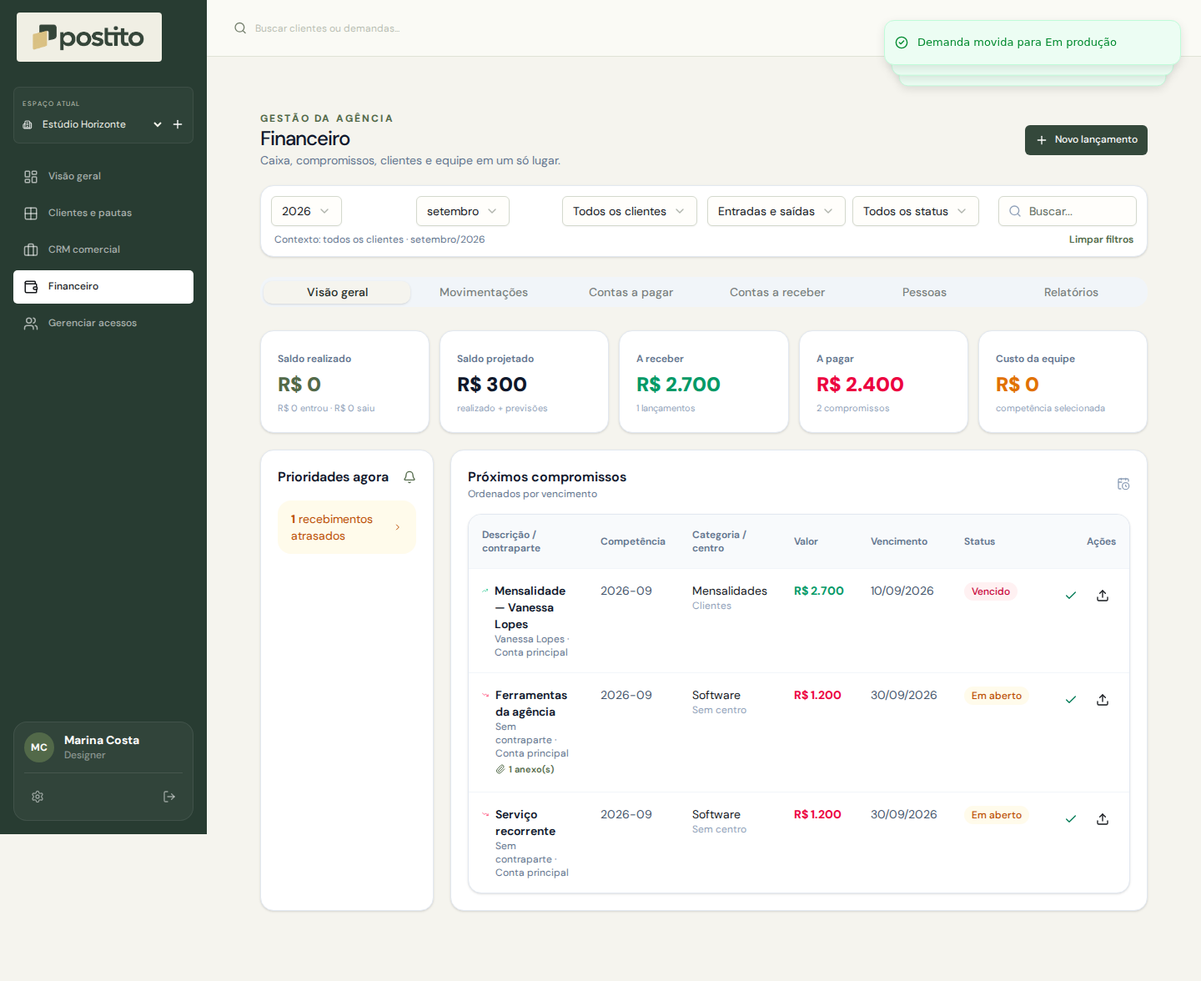
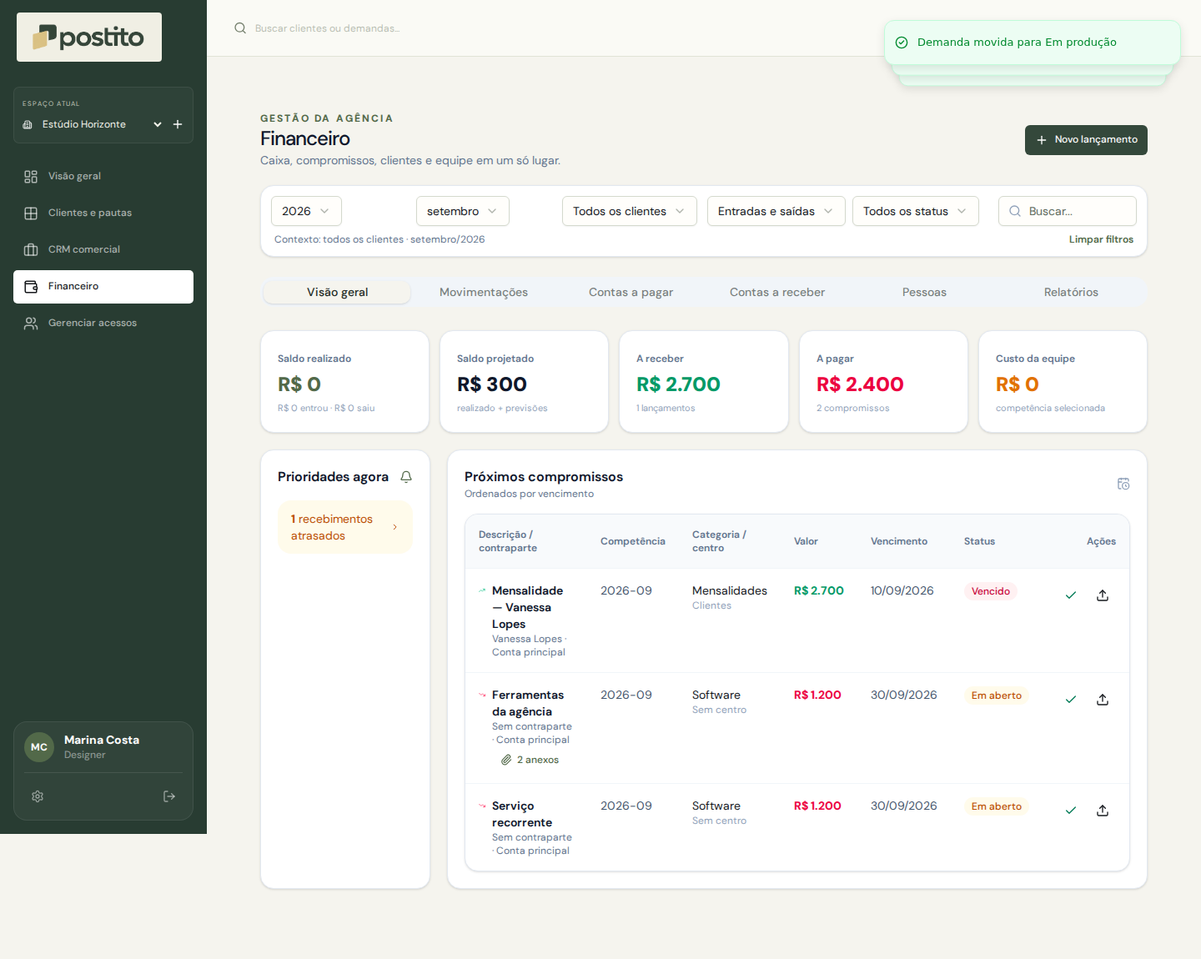
Add password change without email and fix financial documents and assignees

diff --git a/components/workspace-controls.tsx b/components/workspace-controls.tsx
@@ -1,5 +1,6 @@
 "use client";
 import {useState} from "react";
+import {ChangePasswordForm} from "./change-password-form";
 import {Plus,Building2,Check,Search,FolderOpen,ArrowRight} from "lucide-react";
 import {Button} from "@/components/ui/button";
 import {Input} from "@/components/ui/input";
@@ -13,9 +14,9 @@ export function AgencySwitcher({data}:{data:WorkspaceData}){
  return <div className="agency-switcher"><label htmlFor="agency-switch">ESPAÇO ATUAL</label><div className="flex items-center gap-2"><Building2 size={15}/><select id="agency-switch" aria-label="Trocar agência" value={data.agency.id} disabled={busy} onChange={e=>void act({action:"switchAgency",agencyId:e.target.value})}>{data.agencies.map(a=><option key={a.id} value={a.id}>{a.name}</option>)}</select><button onClick={()=>setOpen(true)} aria-label="Criar outra agência"><Plus size={16}/></button></div><Dialog open={open} onOpenChange={setOpen}><DialogContent><DialogHeader><DialogTitle>Criar outra agência</DialogTitle><DialogDescription>A nova agência terá clientes, equipe e financeiro próprios.</DialogDescription></DialogHeader><label>Nome da agência<Input value={name} onChange={e=>setName(e.target.value)}/></label><DialogFooter><Button disabled={busy||name.trim().length<2} onClick={()=>act({action:"createAgency",name})}>Criar agência</Button></DialogFooter></DialogContent></Dialog></div>;
 }
 export function ProfileDialog({open,onOpenChange,data,reload}:{open:boolean;onOpenChange:(v:boolean)=>void;data:WorkspaceData;reload:()=>Promise<void>}){
- const [name,setName]=useState(data.currentMember.name),[profession,setProfession]=useState(data.currentMember.profession),[busy,setBusy]=useState(false);
+ const [name,setName]=useState(data.currentMember.name),[profession,setProfession]=useState(data.currentMember.profession),[busy,setBusy]=useState(false),[changingPassword,setChangingPassword]=useState(false);
  async function save(){setBusy(true);try{const r=await fetch("/api/auth/profile",{method:"POST",headers:{"Content-Type":"application/json"},body:JSON.stringify({name,profession})});const b=await r.json();if(!r.ok)throw new Error(b.error);await reload();toast.success("Perfil atualizado");onOpenChange(false);}catch(e){toast.error((e as Error).message);}finally{setBusy(false);}}
- return <Dialog open={open} onOpenChange={onOpenChange}><DialogContent><DialogHeader><DialogTitle>Seu perfil</DialogTitle><DialogDescription>Seu nome e profissão acompanham sua conta em todas as agências.</DialogDescription></DialogHeader><label>Nome<Input value={name} onChange={e=>setName(e.target.value)}/></label><label>Profissão<select className="profile-select" value={profession} onChange={e=>setProfession(e.target.value)}>{Object.entries(professionLabels).map(([k,v])=><option key={k} value={k}>{v}</option>)}</select></label><p className="text-sm text-muted-foreground">{data.currentMember.email}</p><DialogFooter><Button disabled={busy||name.trim().length<2} onClick={save}>{busy?"Salvando...":"Salvar perfil"}</Button></DialogFooter></DialogContent></Dialog>;
+ return <Dialog open={open} onOpenChange={value=>{onOpenChange(value);if(!value)setChangingPassword(false);}}><DialogContent className="max-h-[90vh] overflow-y-auto"><DialogHeader><DialogTitle>{changingPassword?"Alterar sua senha":"Seu perfil"}</DialogTitle><DialogDescription>{changingPassword?"Confirme a senha atual para proteger sua conta em todas as agências.":"Seu nome e profissão acompanham sua conta em todas as agências."}</DialogDescription></DialogHeader>{changingPassword?<ChangePasswordForm onCancel={()=>setChangingPassword(false)}/>:<><label>Nome<Input value={name} onChange={e=>setName(e.target.value)}/></label><label>Profissão<select className="profile-select" value={profession} onChange={e=>setProfession(e.target.value)}>{Object.entries(professionLabels).map(([k,v])=><option key={k} value={k}>{v}</option>)}</select></label><p className="text-sm text-muted-foreground">{data.currentMember.email}</p><DialogFooter><Button variant="outline" onClick={()=>setChangingPassword(true)}>Alterar senha</Button><Button disabled={busy||name.trim().length<2} onClick={save}>{busy?"Salvando...":"Salvar perfil"}</Button></DialogFooter></>}</DialogContent></Dialog>;
 }
 export function GlobalSearch({data,onClient,onTask}:{data:WorkspaceData;onClient:(id:string)=>void;onTask:(id:string)=>void}){
  const [query,setQuery]=useState(""),[open,setOpen]=useState(false);

diff --git a/components/pauta-app.tsx b/components/pauta-app.tsx
@@ -114,6 +114,7 @@ import {
 import { uploadRequest } from "@/lib/upload-client";
 import { TeamPanel as Team, InviteDialog } from "@/components/team-panel";
 import { MemberPicker, ClientPeople } from "@/components/member-picker";
+import { FinancialDocuments } from "@/components/financial-documents";
 import {
   AgencySwitcher,
   ProfileDialog,
@@ -3154,9 +3155,7 @@ function CreateTaskDialog({
     })),
   );
   const [assigneeId, setAssigneeId] = useState(
-    data.members.find((member) =>
-      permissionsFor(data, member).includes("demands.execute"),
-    )?.id ?? "",
+    () => assignableMembers(data)[0]?.id ?? "",
   );
   const [dueAt, setDueAt] = useState("");
   const [notes, setNotes] = useState("");
@@ -3397,9 +3396,7 @@ function CreateTaskDialog({
                 Responsável
               </label>
               <MemberPicker
-                members={data.members.filter((m) =>
-                  permissionsFor(data, m).includes("demands.execute"),
-                )}
+                members={assignableMembers(data)}
                 value={assigneeId}
                 onSelect={(id) => setAssigneeId(id || "")}
                 label="Selecionar responsável"
@@ -5149,7 +5146,7 @@ function FinanceView({
       <div className="mb-6 rounded-2xl border border-slate-200 bg-white p-3 shadow-sm">
         <div className="grid gap-2 sm:grid-cols-2 lg:grid-cols-6">
           <Select value={filterYear} onValueChange={setFilterYear}>
-            <SelectTrigger className="rounded-xl">
+            <SelectTrigger className="rounded-xl" aria-label="Filtrar ano financeiro">
               <SelectValue />
             </SelectTrigger>
             <SelectContent>
@@ -5162,7 +5159,7 @@ function FinanceView({
             </SelectContent>
           </Select>
           <Select value={filterMonth} onValueChange={setFilterMonth}>
-            <SelectTrigger className="rounded-xl">
+            <SelectTrigger className="rounded-xl" aria-label="Filtrar mês financeiro">
               <SelectValue />
             </SelectTrigger>
             <SelectContent>
@@ -5621,16 +5618,10 @@ function FinanceTransactionTable({
                           {client?.name || t.counterpart || "Sem contraparte"} ·{" "}
                           {t.account}
                         </p>
-                        {documents.length > 0 && (
-                          <a
-                            href={documents[0].url}
-                            target="_blank"
-                            className="mt-1 inline-flex items-center gap-1 text-[11px] font-semibold text-[#526949]"
-                          >
-                            <Paperclip className="size-3" />
-                            {documents.length} anexo(s)
-                          </a>
-                        )}
+                        <FinancialDocuments
+                          documents={documents}
+                          context={t.description}
+                        />
                       </div>
                     </div>
                   </td>
@@ -5900,6 +5891,10 @@ function FinanceWorkerCard({
                         : "anexada"}
                   {docs.length ? ` · ${docs.length} arquivo(s)` : ""}
                 </p>
+                <FinancialDocuments
+                  documents={docs}
+                  context={`${worker.name} · ${c.competence}`}
+                />
               </div>
               <div className="flex items-center gap-1">
                 <Badge

diff --git a/components/change-password-form.tsx b/components/change-password-form.tsx
@@ -1,0 +1,54 @@
+"use client";
+
+import { useState } from "react";
+import { Button } from "@/components/ui/button";
+import { Input } from "@/components/ui/input";
+
+export function ChangePasswordForm({ onCancel }: { onCancel(): void }) {
+  const [busy, setBusy] = useState(false);
+  const [error, setError] = useState("");
+
+  async function submit(event: React.FormEvent<HTMLFormElement>) {
+    event.preventDefault();
+    const form = new FormData(event.currentTarget);
+    const currentPassword = String(form.get("currentPassword") || "");
+    const password = String(form.get("password") || "");
+    const confirmation = String(form.get("confirmation") || "");
+    setError("");
+    if (password !== confirmation) { setError("As novas senhas precisam ser iguais."); return; }
+    if (password === currentPassword) { setError("Escolha uma senha diferente da atual."); return; }
+    setBusy(true);
+    try {
+      const response = await fetch("/api/auth/change-password", {
+        method: "POST",
+        headers: { "Content-Type": "application/json" },
+        body: JSON.stringify({ currentPassword, password, confirmation }),
+      });
+      const result = await response.json();
+      if (!response.ok) throw new Error(result.error || "Não foi possível alterar a senha.");
+      window.location.replace("/?passwordChanged=1");
+    } catch (failure) {
+      setError(failure instanceof Error ? failure.message : "Não foi possível alterar a senha.");
+    } finally {
+      setBusy(false);
+    }
+  }
+
+  return <form onSubmit={submit} className="space-y-4">
+    <label className="block text-sm font-medium">Senha atual
+      <Input name="currentPassword" type="password" autoComplete="current-password" required maxLength={128} disabled={busy} />
+    </label>
+    <label className="block text-sm font-medium">Nova senha
+      <Input name="password" type="password" autoComplete="new-password" required minLength={10} maxLength={128} disabled={busy} aria-describedby="new-password-help" />
+    </label>
+    <p id="new-password-help" className="text-sm text-muted-foreground">Use pelo menos 10 caracteres. Essa alteração não precisa de e-mail e encerra as sessões abertas.</p>
+    <label className="block text-sm font-medium">Confirmar nova senha
+      <Input name="confirmation" type="password" autoComplete="new-password" required minLength={10} maxLength={128} disabled={busy} />
+    </label>
+    {error && <p role="alert" className="text-sm text-red-700">{error}</p>}
+    <div className="flex justify-end gap-2">
+      <Button type="button" variant="ghost" onClick={onCancel} disabled={busy}>Voltar ao perfil</Button>
+      <Button type="submit" disabled={busy}>{busy ? "Alterando..." : "Alterar senha"}</Button>
+    </div>
+  </form>;
+}

diff --git a/components/financial-documents.tsx b/components/financial-documents.tsx
@@ -1,0 +1,62 @@
+"use client";
+
+import { ExternalLink, Paperclip } from "lucide-react";
+import { Button } from "@/components/ui/button";
+import {
+  Popover,
+  PopoverContent,
+  PopoverTrigger,
+} from "@/components/ui/popover";
+import type { FinancialDocument } from "@/lib/workspace-types";
+
+export function FinancialDocuments({
+  documents,
+  context,
+}: {
+  documents: FinancialDocument[];
+  context: string;
+}) {
+  if (!documents.length) return null;
+
+  return (
+    <Popover>
+      <PopoverTrigger asChild>
+        <Button
+          type="button"
+          variant="ghost"
+          size="sm"
+          className="mt-1 h-auto justify-start px-0 py-1 text-xs text-[#526949]"
+          aria-label={`Ver ${documents.length} ${documents.length === 1 ? "anexo" : "anexos"} de ${context}`}
+        >
+          <Paperclip className="size-3.5" />
+          {documents.length} {documents.length === 1 ? "anexo" : "anexos"}
+        </Button>
+      </PopoverTrigger>
+      <PopoverContent
+        align="start"
+        className="max-h-80 w-80 max-w-[calc(100vw-2rem)] overflow-y-auto p-3"
+        aria-label={`Anexos de ${context}`}
+      >
+        <p className="mb-2 text-sm font-semibold">Documentos anexados</p>
+        <ul className="space-y-1">
+          {documents.map((document) => (
+            <li key={document.id}>
+              <a
+                href={document.url}
+                target="_blank"
+                rel="noreferrer"
+                className="flex items-start gap-2 rounded-md px-2 py-2 text-sm text-[#34483b] hover:bg-stone-100 focus-visible:outline-2 focus-visible:outline-offset-2 focus-visible:outline-[#526949]"
+              >
+                <span className="min-w-0 flex-1 break-words">
+                  {document.fileName}
+                </span>
+                <ExternalLink className="mt-0.5 size-4 shrink-0" aria-hidden="true" />
+                <span className="sr-only">Abrir em nova aba</span>
+              </a>
+            </li>
+          ))}
+        </ul>
+      </PopoverContent>
+    </Popover>
+  );
+}

diff --git a/app/api/auth/[action]/route.ts b/app/api/auth/[action]/route.ts
@@ -100,6 +100,25 @@ export async function POST(request:Request,{params}:{params:Promise<{action:stri
     const p=z.object({name:z.string().trim().min(2).max(120),profession:z.string().refine(v=>v in professionLabels)}).parse(raw);
     await db.update(members).set(p).where(eq(members.id,session.userId));return Response.json({ok:true});
   }
+  if(action==="change-password") {
+    const session=await verifySession();if(!session)throw new AppError("Entre na sua conta.",401);
+    await rateLimit(`password-change:${session.userId}`,6,15);
+    const p=z.object({currentPassword:z.string().min(1).max(128),password:passwordSchema,confirmation:passwordSchema})
+      .refine(v=>v.password===v.confirmation,"As senhas precisam ser iguais.")
+      .refine(v=>v.password!==v.currentPassword,"Escolha uma senha diferente da atual.").parse(raw);
+    if(!session.user.passwordHash || !await verifyPassword(p.currentPassword,session.user.passwordHash))throw new AppError("A senha atual está incorreta.",400);
+    const passwordHash=await hashPassword(p.password);
+    await db.transaction(async tx=>{
+      // A concurrent password change must invalidate this older credential.
+      const changed=await tx.update(members).set({passwordHash})
+        .where(and(eq(members.id,session.userId),eq(members.passwordHash,session.user.passwordHash!)))
+        .returning({id:members.id});
+      if(!changed.length)throw new AppError("Sua senha foi alterada em outra sessão. Entre novamente.",409);
+      await tx.update(authChallenges).set({consumedAt:now()}).where(eq(authChallenges.memberId,session.userId));
+      await tx.delete(sessions).where(eq(sessions.memberId,session.userId));
+    });
+    await deleteSession();return Response.json({ok:true,reauthenticate:true});
+  }
   throw new AppError("Ação inválida.");
  }catch(error){return errorResponse(error);}
 }

diff --git a/app/page.tsx b/app/page.tsx
@@ -5,9 +5,9 @@ import {Onboarding} from "@/components/onboarding";
 import {getWorkspaceData,getAgencyList} from "@/lib/server-workspace";
 import {verifySession} from "@/lib/auth";
 export const dynamic="force-dynamic";
-export default async function Home({searchParams}:{searchParams:Promise<{invite?:string;client?:string}>}){
+export default async function Home({searchParams}:{searchParams:Promise<{invite?:string;client?:string;passwordChanged?:string}>}){
  const query=await searchParams,session=await verifySession();
- if(!session)return <AuthShell><AuthForm invite={query.invite}/></AuthShell>;
+ if(!session)return <AuthShell>{query.passwordChanged==="1"&&<p role="status" className="notice mb-4">Senha alterada. Suas sessões foram encerradas. Entre com a nova senha.</p>}<AuthForm invite={query.invite}/></AuthShell>;
  const data=await getWorkspaceData();
  if(query.invite||!data)return <main className="onboarding-shell"><Onboarding name={session.user.name} invite={query.invite} agencies={await getAgencyList(session.userId)}/></main>;
  return <WorkspaceClient key={data.agency.id} initialData={data} initialClientId={query.client}/>;

diff --git a/docs/ENTREGA.md b/docs/ENTREGA.md
@@ -1,5 +1,15 @@
 # Postito — entrega e verificação
 
+## Continuidade de 23/09/2026: acesso administrativo
+
+O titular adiou a configuração de envio de e-mails para avançar na operação. Foi provisionada uma conta indicada por ele, ativada individualmente e vinculada como proprietária a uma agência nova e vazia. A consulta posterior confirmou a credencial gravada e a associação ativa. Nenhuma credencial foi incluída no código, nenhum cadastro público deixou de exigir confirmação e nenhuma conta preexistente foi alterada. Essa ativação manual não comprova propriedade da caixa postal. O primeiro acesso hospedado ainda precisa ser conferido pelo titular.
+
+A atualização acrescenta **Seu perfil → Alterar senha**, sem e-mail, com senha atual obrigatória, confirmação da nova senha, revogação de sessões e novo login. A senha temporária solicitada deve ser substituída antes de inserir dados reais.
+
+Também foram corrigidas duas pendências: o financeiro agora permite abrir cada comprovante/NF anexado; a nova demanda oferece somente responsáveis ativos com as permissões necessárias. Os filtros financeiros de ano e mês receberam nomes acessíveis.
+
+Validação desta rodada: **35 cenários de API/navegador e 19 testes unitários aprovados**, TypeScript e build aprovados, lint com zero erros e 42 avisos preexistentes. Os testes percorrem senha atual incorreta, nova senha inválida, confirmação divergente, encerramento de sessões, rejeição da senha antiga, novo login, ausência de envio de e-mail, múltiplos documentos e responsáveis inelegíveis. A caixa de e-mail, os arquivos e o banco usados na regressão são locais e isolados. A entrega real de e-mails permanece adiada; a publicação continua em Preview.
+
 ## Atualização de 23/09/2026
 
 As instruções principais enviadas pelo usuário foram consolidadas em `docs/REQUISITOS.md`. Esta rodada corrigiu o acesso à criação de pastas, separou edição de CRM e financeiro, protegeu pautas contra sobrescrita por outra edição e acrescentou avisos de rascunho. Também ajustou onboarding, permissões visuais, nomes acessíveis e menu móvel. A memória de design foi revisada.
@@ -103,6 +113,6 @@ Isso é uma auditoria com escopo e evidências, não uma garantia de inexistênc
 4. Promover somente a versão homologada.
 5. Revisar o plano de migração dos administradores/gerentes legados antes de importar dados reais.
 
-O link de pasta Google Drive foi mantido. Cópia automática de objetos para o Google Drive depende de uma integração própria e não está ativa. Arquivos finais possuem versões; edição simultânea da pauta ainda pode prevalecer pela última gravação. Limpeza de objetos órfãos e paginação para bases grandes estão no roteiro posterior.
+O link de pasta Google Drive foi mantido. Cópia automática de objetos para o Google Drive depende de uma integração própria e não está ativa. Arquivos finais possuem versões; desde 23/09/2026 a pauta rejeita versões desatualizadas e preserva o rascunho. Limpeza de objetos órfãos e paginação para bases grandes estão no roteiro posterior.
 
 Assinaturas, preços, checkout e liberação de módulos por pagamento não foram implementados nesta etapa. A proposta de discussão está em `docs/PROXIMAS-ETAPAS.md`.

diff --git a/docs/ACESSO-E-CORRECOES-2026-09-23.md b/docs/ACESSO-E-CORRECOES-2026-09-23.md
@@ -1,0 +1,35 @@
+# Acesso administrativo e continuidade
+
+## Pedido atendido
+
+Priorizar acesso ao Postito sem depender da configuração do provedor de e-mail; manter o andamento das correções. O titular autorizou uma conta específica. Ela foi criada manualmente no banco existente, com hash scrypt e associação de proprietário a uma agência vazia. O provisionamento não faz parte do deploy nem é executado automaticamente. Dados de acesso não constam deste documento ou do repositório.
+
+A confirmação foi uma ativação administrativa individual, não uma entrega de código. Cadastros públicos continuam pendentes até confirmar o e-mail. O envio real foi adiado por decisão do titular, sem reativar credenciais de diagnóstico ou mudar provedores.
+
+## Alterações
+
+1. Troca de senha no perfil, independente do e-mail: exige sessão e senha atual, nova senha de dez a 128 caracteres e confirmação. Compara o hash anterior na atualização, invalida desafios e sessões em transação, limpa o cookie e retorna ao login.
+2. Lista de documentos financeiros: cada comprovante de lançamento e nota fiscal de competência tem seu próprio link autorizado. Antes, o lançamento abria somente o primeiro arquivo e a competência apenas informava a contagem.
+3. Responsáveis elegíveis: nova demanda usa a mesma regra dos demais seletores, limitando opções a pessoas ativas com acesso a clientes e execução de demandas.
+4. Filtros financeiros identificados para navegação acessível e testes.
+
+## Verificação
+
+| Verificação | Resultado |
+| --- | --- |
+| API e navegador Chromium, desktop/celular | 35 cenários aprovados |
+| Testes unitários | 19 aprovados |
+| TypeScript | Aprovado |
+| Build de produção | Aprovado; aviso preexistente no rastreamento de arquivos locais |
+| ESLint | Zero erros; 42 avisos de manutenção |
+| Banco hospedado | Conta e vínculo ativos, hash conferido, agência sem clientes |
+| Envio real de e-mail | Adiado; nenhum envio nesta rodada |
+| Primeiro login da conta provisionada na Vercel | A conferir pelo titular; não substituído por teste local |
+
+Os cenários novos verificam senha atual incorreta, nova senha curta, confirmação divergente, senha igual à atual, revogação das sessões existentes, rejeição da senha antiga, login com a nova, agência preservada e nenhum novo arquivo de e-mail. No navegador, verificam múltiplos comprovantes, leitura autorizada das notas e exclusão de colaboradores inativos/sem acesso nas opções. A primeira execução identificou um seletor de teste ambíguo; recebeu nome acessível específico antes da repetição completa aprovada.
+
+Evidências: `evidence/results.json`, `evidence/documentos-financeiros.png` e `evidence/notas-fiscais.png`. Dados de teste são fictícios.
+
+## Pendências preservadas
+
+Homologação completa dos serviços hospedados, entrega real de mensagens, domínio/remetente definitivo e promoção a produção. Planos, valores e checkout continuam para discussão posterior. A revisão identificou como hipótese de teste futuro uma corrida preexistente entre login já em andamento e revogação de sessões; não foi reproduzida nesta rodada e não constitui verificação de segurança independente.

diff --git a/docs/REQUISITOS.md b/docs/REQUISITOS.md
@@ -33,12 +33,14 @@ Evoluir o sistema original de gerenciamento de agência para Postito: demandas, 
 | U21 | Considerar CRM/financeiro em plano médio/master | Hipótese de produto, sem bloqueios comerciais definitivos nesta fase |
 | U22 | Trabalhar no Work, com modelo citado pelo usuário | Sessão em Work; não afirmar mudança de modelo sem confirmação do ambiente |
 | U23 | Propor ideias melhores e poder executá-las | Melhorias pertinentes podem ser implementadas e testadas; contratação e decisões comerciais continuam dependentes do titular |
+| U24 | Adiar envio de e-mail e liberar uma conta administrativa indicada pelo titular | Provisionamento individual no banco, limitado à própria agência; nenhuma credencial padrão no código e nenhum atalho público de autenticação |
+| U25 | Continuar as alterações pendentes | Corrigir pendências verificadas, acrescentar troca de senha no perfil sem envio de e-mail e repetir a regressão |
 
 ## Ordem de execução
 
 1. Consolidar contexto, regras, repositório e serviços existentes.
 2. Reproduzir falhas da base e corrigir com testes.
-3. Homologar autenticação e envio de e-mails, respeitando o bloqueio real do provedor.
+3. Liberar o acesso administrativo solicitado e a troca de senha no perfil; retomar envio de e-mails posteriormente, conforme a nova prioridade do titular.
 4. Conferir multiagência, convites, papéis, escopos e arquivos.
 5. Conferir a operação de clientes, pastas, demandas, pauta e revisão.
 6. Conferir CRM e financeiro, dados e permissões.
@@ -46,7 +48,7 @@ Evoluir o sistema original de gerenciamento de agência para Postito: demandas, 
 8. Regressão final, Preview, homologação hospedada e recuperação.
 9. Conversa futura sobre planos, limites, preços e checkout.
 
-A homologação de e-mail está bloqueada externamente. Correções independentes de demandas, permissões e interface podem avançar com caixa local isolada, sem declarar que a entrega real de mensagens está resolvida.
+A homologação de e-mail foi adiada pelo titular em 23/09/2026 para avançar na operação. A ativação manual de uma conta indicada é uma ação administrativa individual; não comprova propriedade da caixa postal nem elimina a confirmação dos cadastros públicos. Testes isolados de mensagens continuam sem comprovar entrega real.
 
 ## Sugestões e decisões de produto
 

diff --git a/docs/ARQUITETURA.md b/docs/ARQUITETURA.md
@@ -32,6 +32,8 @@ Trocar agência altera a agência ativa da sessão. Desativar uma associação i
 - Código aleatório de seis dígitos: validade de 15 minutos, cinco tentativas por desafio e limites adicionais por conta.
 - Recuperação usa token aleatório de 256 bits, expiração de 30 minutos e consumo único.
 - Redefinição de senha encerra todas as sessões da conta.
+- Troca de senha no perfil exige sessão e senha atual, valida uma nova senha de pelo menos dez caracteres e não envia e-mail. A gravação compara o hash anterior para rejeitar alteração concorrente, consome desafios pendentes e encerra todas as sessões. O usuário entra novamente com a nova senha.
+- O provisionamento manual de uma conta pelo titular não instala credenciais padrão nem concede administração global. A ativação individual permite operar enquanto a entrega de e-mails estiver adiada; os fluxos públicos mantêm a confirmação obrigatória.
 - Sessão opaca guardada em cookie HttpOnly, SameSite=Lax, Secure em produção. No banco é guardado somente o hash do token, com validade de sete dias.
 - Código e token de recuperação são armazenados como hashes; não constam no payload da área de trabalho.
 - Limites persistidos em banco reduzem abuso de login, cadastro, convites e envio de e-mails. Na Vercel há também limite de envio por IP informado pela plataforma.
